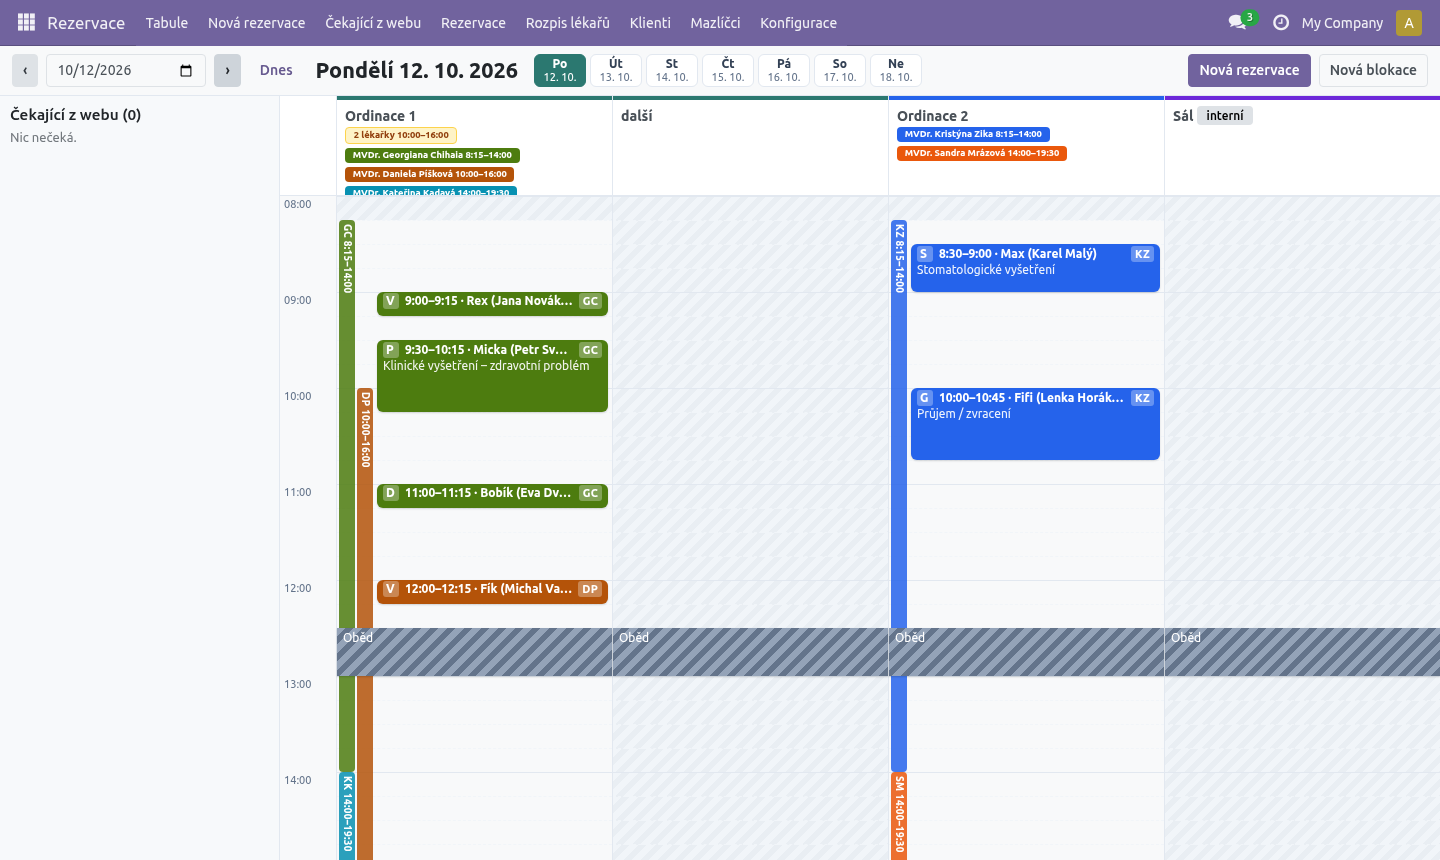
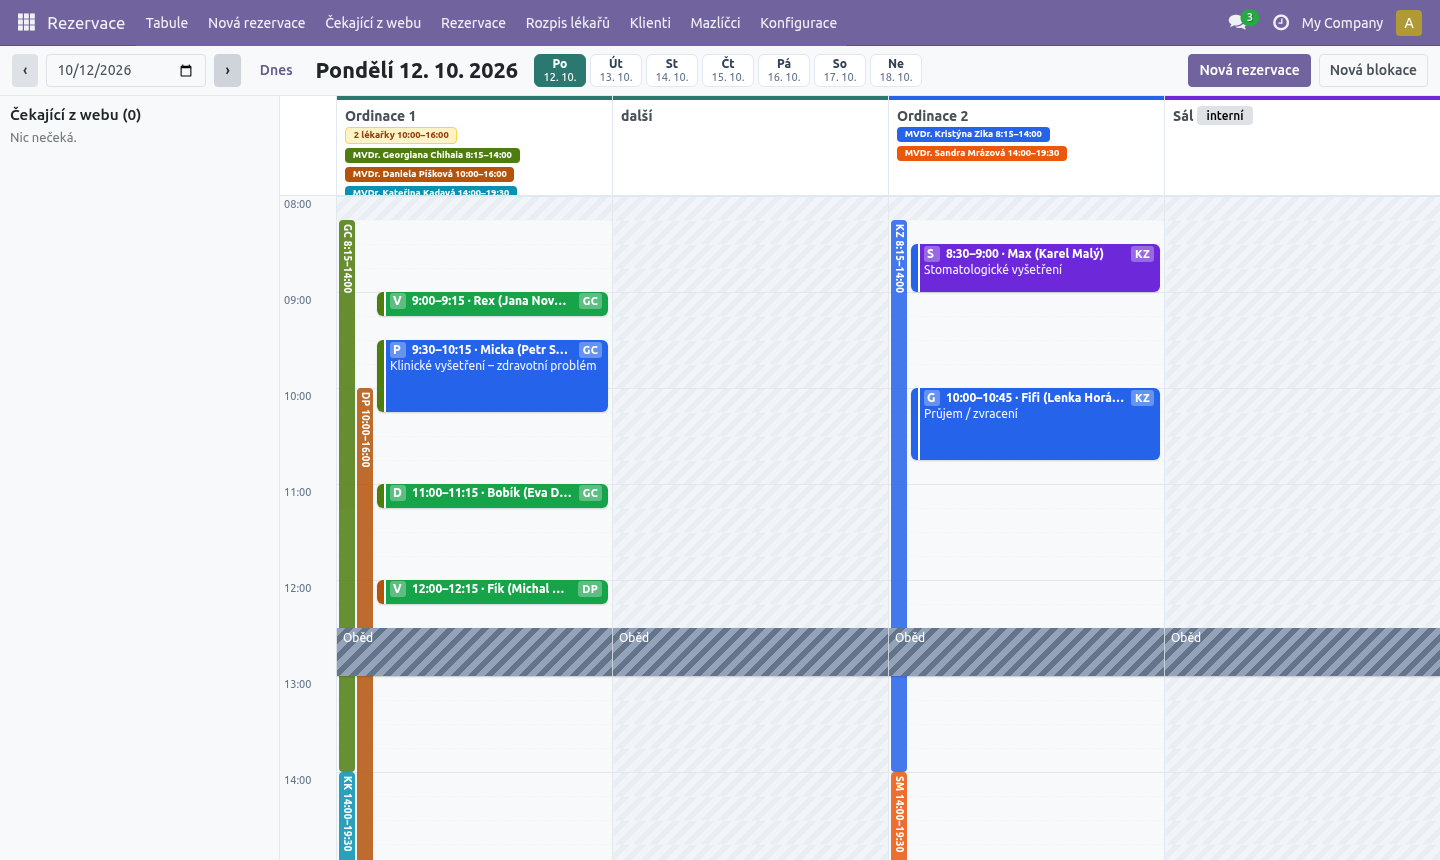
feat(elite-vet): rezervace – karta v barve ukonu, prouzek v barve lekarky
Klinika chce kartu rezervace dal v barve ukonu. Lekarku ukazuje proužek
na levem okraji karty (doctor_color v board_data), oddeleny bilou linkou.
Kalendarni pohled barvi podle ukonu.

diff --git a/elite_vet/elite_vet_reservation/static/src/board/board.js b/elite_vet/elite_vet_reservation/static/src/board/board.js
@@ -159,6 +159,9 @@ export class ReservationBoard extends Component {
         let style = "top:" + this.top(e.start) + "px;height:" + this.height(e.start, e.end) + "px";
         if (e.kind !== "block") {
             style += ";left:" + this.eventLeft(room) + "px;background:" + e.color_hex + ";color:" + textOn(e.color_hex);
+            // Proužek vlevo v barvě lékařky, ke které je klient objednaný.
+            // Bílá linka ho oddělí i tam, kde má úkon podobnou barvu jako lékařka.
+            if (e.doctor_color) style += ";border-left:7px solid " + e.doctor_color + ";box-shadow:inset 2px 0 0 #fff,0 1px 2px rgba(0,0,0,.15)";
         }
         return style;
     }

diff --git a/elite_vet/elite_vet_reservation/tests/test_barvy.py b/elite_vet/elite_vet_reservation/tests/test_barvy.py
@@ -10,12 +10,12 @@ D = date(2026, 10, 14)
 
 @tagged("post_install", "-at_install")
 class TestBarvy(ReservationCase):
-    """Rezervace má barvu lékařky, ke které je klient objednaný."""
+    """Karta má barvu úkonu, proužek vlevo barvu lékařky."""
 
-    def test_reservation_takes_doctor_colour(self):
+    def test_card_keeps_procedure_colour_with_doctor(self):
         self.dr_a.barva = "#123456"
         r = self.reservation(start=self.dt(D, 9, 0), doctor_id=self.dr_a.id)
-        self.assertEqual(r.color_hex, "#123456")
+        self.assertEqual(r.color_hex, self.vacc.color_hex)
 
     def test_without_doctor_procedure_colour(self):
         r = self.reservation(start=self.dt(D, 9, 0))
@@ -31,13 +31,17 @@ class TestBarvy(ReservationCase):
         d.prijima_rezervace = True
         self.assertTrue(d.barva)
 
-    def test_board_uses_doctor_colour(self):
+    def test_board_doctor_stripe_colour(self):
         self.hours(self.room1, 2, 8.0, 18.0)
         self.assign(self.dr_a, self.room1, D, 8.0, 12.0)
         self.dr_a.barva = "#abcdef"
         r = self.reservation(start=self.dt(D, 9, 0), doctor_id=self.dr_a.id)
         data = self.env["elite.vet.reservation"].board_data("2026-10-14")
         ev = next(e for e in data["events"] if e["id"] == r.id)
-        self.assertEqual(ev["color_hex"], "#abcdef")
+        self.assertEqual(ev["color_hex"], self.vacc.color_hex)
+        self.assertEqual(ev["doctor_color"], "#abcdef")
+        bez = self.reservation(start=self.dt(D, 10, 0))
+        ev = next(e for e in self.env["elite.vet.reservation"].board_data("2026-10-14")["events"] if e["id"] == bez.id)
+        self.assertFalse(ev["doctor_color"])
         room = next(x for x in data["rooms"] if x["id"] == self.room1.id)
         self.assertEqual(room["doctors"][0]["color"], "#abcdef")

diff --git a/elite_vet/elite_vet_reservation/models/reservation.py b/elite_vet/elite_vet_reservation/models/reservation.py
@@ -155,15 +155,12 @@ class VetReservation(models.Model):
         for rec in self:
             rec.duration_minutes = int((rec.stop - rec.start).total_seconds() // 60) if rec.start and rec.stop else 0
 
-    @api.depends("kind", "procedure_id.color_hex", "doctor_id.barva")
+    @api.depends("kind", "procedure_id.color_hex")
     def _compute_color_hex(self):
-        # Klinika si přála barvu podle lékařky, ke které je klient objednaný;
-        # dokud lékařka není přiřazená (např. čekající žádost), barva úkonu.
+        # Karta má barvu úkonu; lékařku ukazuje proužek vlevo (doctor_color na tabuli).
         for rec in self:
             if rec.kind == "block":
                 rec.color_hex = "#64748b"
-            elif rec.doctor_id:
-                rec.color_hex = barva_lekarky(rec.doctor_id)
             else:
                 rec.color_hex = rec.procedure_id.color_hex or "#64748b"
 
@@ -414,6 +411,7 @@ class VetReservation(models.Model):
                 "phone": r.contact_phone or r.partner_id.phone or "", "email": r.contact_email or r.partner_id.email or "",
                 "problem": r.problem or "", "procedure": r.procedure_id.with_context(lang=lang).name or "",
                 "doctor": r.doctor_id.name or "", "doctor_initials": inicialy(r.doctor_id.name),
+                "doctor_color": barva_lekarky(r.doctor_id) if r.doctor_id else False,
                 "source": r.source,
             })
         waiting = []

diff --git a/elite_vet/elite_vet_reservation/models/doctor.py b/elite_vet/elite_vet_reservation/models/doctor.py
@@ -17,7 +17,7 @@ class VetDoctor(models.Model):
 
     barva = fields.Char(
         string="Barva v kalendáři",
-        help="Barva jejích rezervací a služeb na tabuli. Když ji nevyberete, "
+        help="Barva jejího proužku na kartách rezervací a její služby na tabuli. Když ji nevyberete, "
              "přidělí se automaticky – každá lékařka má jinou.")
 
     def vyplnit_barvy(self):

diff --git a/elite_vet/elite_vet_reservation/doc/recepce.md b/elite_vet/elite_vet_reservation/doc/recepce.md
@@ -26,7 +26,7 @@ Tabule ukazuje **jeden den**. Každá ordinace má svůj sloupec, vlevo je časo
   Vybraný den je zelený, dnešek má červený rámeček.
 
 Tabule nemá týdenní mřížku. Když chcete vidět celý týden najednou, otevřete
-**Rezervace** a přepněte vpravo nahoře na zobrazení kalendáře (barvy podle lékařky).
+**Rezervace** a přepněte vpravo nahoře na zobrazení kalendáře (barvy podle úkonu).
 
 ### Co na tabuli vidíte
 
@@ -37,7 +37,7 @@ Tabule nemá týdenní mřížku. Když chcete vidět celý týden najednou, ote
 | Světlé čárkované šrafování se štítkem „jen web“ | Blokace jen pro web: web tam nic nenabízí, vy tam objednat smíte. Klik do ní otevře průvodce, klik na štítek otevře blokaci. |
 | Barevný svislý proužek vlevo ve sloupci | Služba lékařky: iniciály a čas (např. „GC 8:15–14:00“). Každá lékařka má svou barvu, stejnou i ve štítku v hlavičce. |
 | Dva proužky vedle sebe | V ordinaci slouží současně dvě lékařky (viz níže). |
-| Barevná karta | Rezervace. Má barvu lékařky, ke které je klient objednaný – stejnou jako její proužek a štítek. Rezervace bez lékařky má barvu úkonu. Zkratka úkonu je v rohu karty (např. V = vakcinace). |
+| Barevná karta | Rezervace. Barva karty patří úkonu (např. vakcinace zelená, problém modrý). Proužek na levém okraji karty má barvu lékařky, ke které je klient objednaný – stejnou jako její služba a štítek. Rezervace bez lékařky proužek nemá. |
 | Písmeno vlevo na kartě | Zkratka úkonu (V = vakcinace, P = zdravotní problém, S = stomatologie…). |
 | Čas · jméno | Např. „9:00–9:15 · Rex (Jana Nováková)“ = mazlíček (majitel). |
 | Druhý řádek | Název úkonu (jen u delších karet). |

diff --git a/elite_vet/elite_vet_reservation/doc/nastaveni.md b/elite_vet/elite_vet_reservation/doc/nastaveni.md
@@ -40,8 +40,8 @@ U každé veterinární lékařky:
 2. Zaškrtněte **Lékařka – přijímá rezervace** (v seznamu sloupec „Lékařka (rezervace)“).
 3. Zkontrolujte **Karta v týmu** – propojení na její kartu na stránce Náš tým.
    Z karty se berou specializace.
-4. Případně změňte **Barva v kalendáři**. V této barvě se na tabuli i v kalendáři
-   zobrazují její rezervace, proužek služby a štítek. Barva se přidělí automaticky
+4. Případně změňte **Barva v kalendáři**. V této barvě se na tabuli
+   zobrazuje proužek na kartách jejích rezervací, její služba a štítek. Barva se přidělí automaticky
    (každá lékařka jinou), stačí ji upravit, když se dvě podobají.
 
 Co příznak dělá:
@@ -126,7 +126,7 @@ Seznam lze upravovat přímo v řádcích; pořadí se mění přetažením.
 | **Název** | Co klient vidí na webu a v e-mailu. Překládá se (viz Překlady). |
 | **Délka (min)** | Jak dlouho úkon trvá. Násobek 5 minut. |
 | **Zkratka** | 1–3 znaky na kartě v tabuli (V, P, KA…). |
-| **Barva** | Barva karty na tabuli, jen pokud rezervace nemá přiřazenou lékařku (jinak má karta barvu lékařky). |
+| **Barva** | Barva karty na tabuli. |
 | **Nabízet online** | Odškrtnuté = jen pro recepci, na webu se nenabízí. |
 | **Ordinace** | Kde se úkon dělá. Prázdné = ve všech ordinacích rezervovatelných online. |
 | **Specializace** | **Kdo úkon dělá**: jen lékařky s aspoň jednou z těchto specializací. Prázdné = kterákoli lékařka. |
